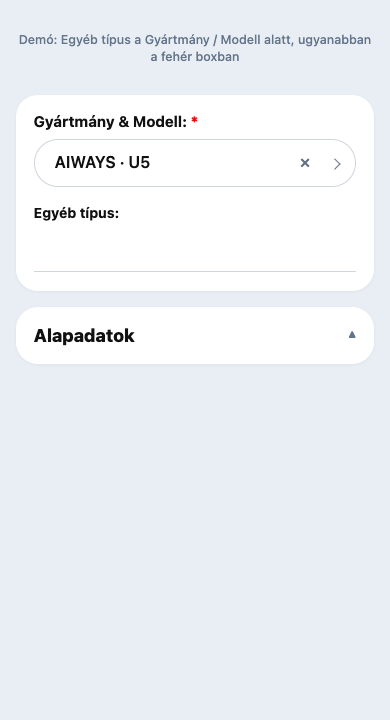
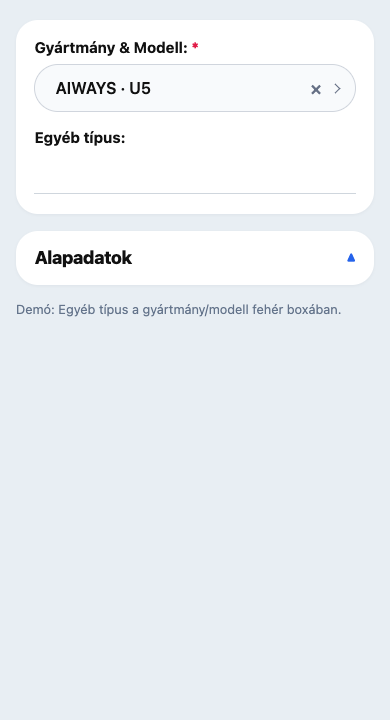
Put Egyéb típus under Gyártmány/Modell in the same white brand card.

diff --git a/public/css/ad-form-bm-pickers.css b/public/css/ad-form-bm-pickers.css
@@ -1243,14 +1243,14 @@ body.site-app[data-site-page="hirdetesfeladas"] #ad-form .step-panel[data-step="
   padding: 0 !important;
 }
 
-/* Gyártmány pill + Egyéb típus: közös fehér box a kék háttéren */
+/* Gyártmány + Egyéb típus: egy fehér box a világoskék hátteren (demó) */
 body.site-app[data-site-page="hirdetesfeladas"] #ad-form .ad-form-alap-brand-block {
   display: flex !important;
   flex-direction: column !important;
   gap: 1rem !important;
   width: 100% !important;
   margin: 0 !important;
-  padding: 1.1rem 1.1rem 1.2rem !important;
+  padding: 1.1rem 1.15rem 1.25rem !important;
   background: #fff !important;
   border-radius: 1.375rem !important;
   border: 0 !important;
@@ -1266,6 +1266,7 @@ body.site-app[data-site-page="hirdetesfeladas"] #ad-form .ad-form-alap-brand-row
   box-shadow: none !important;
   display: grid !important;
   gap: 0.55rem !important;
+  width: 100% !important;
 }
 
 body.site-app[data-site-page="hirdetesfeladas"] #ad-form .ad-form-alap-brand-row > label {
@@ -1274,39 +1275,13 @@ body.site-app[data-site-page="hirdetesfeladas"] #ad-form .ad-form-alap-brand-row
   margin: 0 !important;
 }
 
-/* Egyéb típus: aláhúzott mező a gyártmány/modell alatt, ugyanabban a fehér boxban */
-body.site-app[data-site-page="hirdetesfeladas"] #ad-form .ad-form-alap-brand-block .ad-form-alap-brand-row--egyeb-tipus {
-  gap: 0.45rem !important;
-  margin-top: 0.15rem !important;
-}
-
-body.site-app[data-site-page="hirdetesfeladas"] #ad-form .ad-form-alap-brand-block .ad-form-alap-brand-row--egyeb-tipus > label {
-  font: 700 0.875rem/1.2 system-ui, sans-serif !important;
-}
-
-body.site-app[data-site-page="hirdetesfeladas"] #ad-form .ad-form-alap-brand-block .ad-form-alap-brand-row--egyeb-tipus input,
-body.site-app[data-site-page="hirdetesfeladas"] #ad-form .ad-form-alap-brand-block .ad-form-alap-brand-row--egyeb-tipus input.ad-form-cell,
-body.site-app[data-site-page="hirdetesfeladas"] #ad-form .ad-form-alap-brand-block #egyeb_tipus {
-  border: 0 !important;
-  border-bottom: 1.5px solid #cfd6dd !important;
-  border-radius: 0 !important;
-  background: transparent !important;
-  box-shadow: none !important;
-  min-height: 2.65rem !important;
-  height: auto !important;
-  padding: 0.45rem 0 !important;
-  font: 500 1rem/1.3 system-ui, sans-serif !important;
-  color: #111 !important;
-  width: 100% !important;
-}
-
 body.site-app[data-site-page="hirdetesfeladas"] #ad-form .ad-form-alap-brand-block .ad-form-bm-field--brand-model > .ad-form-drum-wrap,
 body.site-app[data-site-page="hirdetesfeladas"] #ad-form .ad-form-alap-brand-block .ad-form-bm-field--brand-model > .immo-wheel-wrap {
   height: 3rem !important;
   min-height: 3rem !important;
   border-radius: 999px !important;
   border: 1px solid #d0d5dd !important;
-  background: #fff !important;
+  background: #f8fafc !important;
   box-shadow: none !important;
 }
 
@@ -1320,6 +1295,43 @@ body.site-app[data-site-page="hirdetesfeladas"] #ad-form .ad-form-alap-brand-blo
 body.site-app[data-site-page="hirdetesfeladas"] #ad-form .ad-form-alap-brand-block .ad-form-bm-field--brand-model .immo-wheel-trigger:not(.is-placeholder) {
   color: #111 !important;
   font-weight: 600 !important;
+}
+
+/* Egyéb típus: aláhúzás a gyártmány boxban */
+body.site-app[data-site-page="hirdetesfeladas"] #ad-form .ad-form-alap-brand-block .ad-layout-item:has(#egyeb_tipus),
+body.site-app[data-site-page="hirdetesfeladas"] #ad-form .ad-form-alap-brand-block .labeled-field:has(#egyeb_tipus),
+body.site-app[data-site-page="hirdetesfeladas"] #ad-form .ad-form-alap-brand-block .ad-form-alap-brand-row:has(#egyeb_tipus) {
+  display: grid !important;
+  gap: 0.45rem !important;
+  margin: 0.15rem 0 0 !important;
+}
+
+body.site-app[data-site-page="hirdetesfeladas"] #ad-form .ad-form-alap-brand-block :is(.ad-layout-item, .labeled-field, .ad-form-alap-brand-row):has(#egyeb_tipus) > label {
+  font: 700 0.94rem/1.2 system-ui, sans-serif !important;
+  color: #111 !important;
+  margin: 0 !important;
+}
+
+body.site-app[data-site-page="hirdetesfeladas"] #ad-form .ad-form-alap-brand-block #egyeb_tipus,
+body.site-app[data-site-page="hirdetesfeladas"] #ad-form .ad-form-alap-brand-block input#egyeb_tipus.ad-form-cell {
+  width: 100% !important;
+  box-sizing: border-box !important;
+  margin: 0 !important;
+  padding: 0.55rem 0.1rem 0.5rem !important;
+  border: 0 !important;
+  border-bottom: 1.5px solid #cfd6dd !important;
+  border-radius: 0 !important;
+  background: transparent !important;
+  box-shadow: none !important;
+  min-height: 2.5rem !important;
+  font: 500 1rem/1.3 system-ui, sans-serif !important;
+  color: #111 !important;
+  outline: none !important;
+}
+
+body.site-app[data-site-page="hirdetesfeladas"] #ad-form .ad-form-alap-brand-block #egyeb_tipus:focus,
+body.site-app[data-site-page="hirdetesfeladas"] #ad-form .ad-form-alap-brand-block input#egyeb_tipus.ad-form-cell:focus {
+  border-bottom-color: #111 !important;
 }
 
 /* Fehér Alapadatok kártya */
@@ -1463,9 +1475,15 @@ html[data-theme="dark"] body.site-app.ad-form-desk-active[data-site-page="hirdet
 }
 
 html[data-theme="dark"] body.site-app[data-site-page="hirdetesfeladas"] #ad-form .ad-form-alap-card,
-html[data-theme="dark"] body.site-app[data-site-page="hirdetesfeladas"] #ad-form .ad-form-alap-brand-block .ad-form-bm-field--brand-model > .ad-form-drum-wrap {
+html[data-theme="dark"] body.site-app[data-site-page="hirdetesfeladas"] #ad-form .ad-form-alap-brand-block {
   background: #1d1d1d !important;
   box-shadow: none !important;
+}
+
+html[data-theme="dark"] body.site-app[data-site-page="hirdetesfeladas"] #ad-form .ad-form-alap-brand-block .ad-form-bm-field--brand-model > .ad-form-drum-wrap,
+html[data-theme="dark"] body.site-app[data-site-page="hirdetesfeladas"] #ad-form .ad-form-alap-brand-block .ad-form-bm-field--brand-model > .immo-wheel-wrap {
+  background: #111827 !important;
+  border-color: #4b5563 !important;
 }
 
 html[data-theme="dark"] body.site-app[data-site-page="hirdetesfeladas"] #ad-form .ad-form-alap-card__title,

diff --git a/docs/design-demos/ad-form-brand-egyeb-tipus-demo.html b/docs/design-demos/ad-form-brand-egyeb-tipus-demo.html
@@ -3,105 +3,110 @@
 <head>
   <meta charset="utf-8" />
   <meta name="viewport" content="width=device-width, initial-scale=1" />
-  <title>Demó — Gyártmány/Modell + Egyéb típus egy fehér boxban</title>
+  <title>Demó — Gyártmány box + Egyéb típus</title>
   <style>
     :root { color-scheme: light; }
     * { box-sizing: border-box; }
     body {
       margin: 0;
       min-height: 100vh;
-      font-family: system-ui, -apple-system, sans-serif;
-      background: #e8eef3;
-      color: #111;
       padding: 1.25rem 1rem 2rem;
+      background: #e8eef3;
+      font: 400 16px/1.35 system-ui, -apple-system, sans-serif;
+      color: #111;
     }
-    .wrap { max-width: 390px; margin: 0 auto; display: flex; flex-direction: column; gap: 1rem; }
-    .brand-box {
+    .stack {
+      max-width: 390px;
+      margin: 0 auto;
+      display: flex;
+      flex-direction: column;
+      gap: 1.1rem;
+    }
+    .brand-box,
+    .alap-box {
       background: #fff;
       border-radius: 1.375rem;
-      padding: 1.1rem 1.1rem 1.2rem;
       box-shadow: 0 1px 3px rgba(15, 23, 42, 0.05);
+      padding: 1.1rem 1.15rem 1.25rem;
+    }
+    .brand-box {
       display: flex;
       flex-direction: column;
       gap: 1rem;
     }
-    .row { display: grid; gap: 0.55rem; }
-    .row--egyeb { gap: 0.45rem; margin-top: 0.15rem; }
-    label { font: 700 0.94rem/1.2 system-ui, sans-serif; margin: 0; }
-    .row--egyeb label { font-size: 0.875rem; }
+    label {
+      display: block;
+      font: 700 0.94rem/1.2 system-ui, sans-serif;
+      margin: 0 0 0.55rem;
+    }
+    .req { color: #e11d48; }
     .pill {
-      position: relative;
-      height: 3rem;
-      border-radius: 999px;
-      border: 1px solid #d0d5dd;
-      background: #fff;
       display: flex;
       align-items: center;
-      padding: 0 2.35rem 0 1.25rem;
+      justify-content: space-between;
+      min-height: 3rem;
+      padding: 0 1rem 0 1.25rem;
+      border: 1px solid #d0d5dd;
+      border-radius: 999px;
+      background: #f8fafc;
       font: 600 1rem/1.2 system-ui, sans-serif;
-      color: #111;
     }
-    .pill::after {
-      content: "";
-      position: absolute;
-      top: 50%;
-      right: 1.05rem;
+    .pill .meta { display: flex; align-items: center; gap: 0.65rem; color: #667085; }
+    .pill .x { font-size: 1.15rem; line-height: 1; }
+    .pill .chev {
       width: 0.42rem;
       height: 0.42rem;
-      margin-top: -0.22rem;
       border-top: 1.5px solid #667085;
       border-right: 1.5px solid #667085;
       transform: rotate(45deg);
     }
-    .pill.is-empty { color: #6b7280; font-weight: 500; }
-    .pill .x {
-      position: absolute;
-      right: 2.4rem;
-      border: 0;
-      background: transparent;
-      font-size: 1.25rem;
-      line-height: 1;
-      color: #667085;
-      cursor: default;
-    }
     .underline {
+      width: 100%;
       border: 0;
       border-bottom: 1.5px solid #cfd6dd;
       background: transparent;
-      min-height: 2.65rem;
-      padding: 0.45rem 0;
+      padding: 0.55rem 0.1rem 0.5rem;
       font: 500 1rem/1.3 system-ui, sans-serif;
-      width: 100%;
       outline: none;
     }
-    .alap {
-      background: #fff;
-      border-radius: 1.375rem;
-      padding: 1.1rem;
-      box-shadow: 0 1px 3px rgba(15, 23, 42, 0.05);
-      font: 800 1.125rem/1.2 system-ui, sans-serif;
+    .alap-box {
       display: flex;
-      justify-content: space-between;
       align-items: center;
+      justify-content: space-between;
+      min-height: 3.35rem;
+      padding: 0.95rem 1.15rem;
+      font: 800 1.125rem/1.2 system-ui, sans-serif;
+      letter-spacing: -0.02em;
     }
-    .alap span { color: #64748b; font-size: 0.65rem; transform: rotate(180deg); }
-    .note { font: 500 0.78rem/1.35 system-ui, sans-serif; color: #64748b; text-align: center; }
+    .alap-box .tri { color: #2563eb; font-size: 0.75rem; }
+    .note {
+      max-width: 390px;
+      margin: 1rem auto 0;
+      font-size: 0.8rem;
+      color: #64748b;
+    }
   </style>
 </head>
 <body>
-  <div class="wrap">
-    <p class="note">Demó: Egyéb típus a Gyártmány / Modell alatt, ugyanabban a fehér boxban</p>
-    <div class="brand-box">
-      <div class="row">
-        <label>Gyártmány &amp; Modell: <span style="color:#e11">*</span></label>
-        <div class="pill">AIWAYS · U5<button class="x" type="button" aria-label="törlés">×</button></div>
+  <div class="stack">
+    <section class="brand-box" aria-label="Gyártmány box">
+      <div>
+        <label>Gyártmány &amp; Modell: <span class="req">*</span></label>
+        <div class="pill">
+          <span>AIWAYS · U5</span>
+          <span class="meta"><span class="x" aria-hidden="true">×</span><span class="chev" aria-hidden="true"></span></span>
+        </div>
       </div>
-      <div class="row row--egyeb">
+      <div>
         <label for="egyeb">Egyéb típus:</label>
-        <input id="egyeb" class="underline" type="text" value="" placeholder="" />
+        <input id="egyeb" class="underline" type="text" placeholder="" />
       </div>
-    </div>
-    <div class="alap">Alapadatok <span>▼</span></div>
+    </section>
+    <section class="alap-box" aria-label="Alapadatok">
+      <span>Alapadatok</span>
+      <span class="tri" aria-hidden="true">▲</span>
+    </section>
   </div>
+  <p class="note">Demó: Egyéb típus a gyártmány/modell fehér boxában.</p>
 </body>
 </html>

diff --git a/public/js/ad-form-desk-pinned-blocks.js b/public/js/ad-form-desk-pinned-blocks.js
@@ -89,11 +89,10 @@ function step1FieldKey(el) {
 
 function isStep1BrandRow(el) {
   if (!el) return false;
-  /* Csak a kombinált gyártmány-pill — a külön #modell sort a nested CSS rejti, ne a brand blokkba. */
+  /* Gyártmány-pill + Egyéb típus egy fehér boxban (demó). */
   if (el.matches?.(".ad-form-bm-field--brand-model")) return true;
   if (el.querySelector?.(".ad-form-bm-field--brand-model, [data-ad-bm-for='gyartmany']")) return true;
   const key = step1FieldKey(el);
-  /* Egyéb típus a gyártmány/modell fehér boxában, közvetlenül alatta. */
   return key === "gyartmany" || key === "egyeb_tipus";
 }
 
@@ -141,22 +140,17 @@ export function wrapAlapScoutCard(canvas) {
   const rest = items.filter((el) => !isStep1BrandRow(el));
 
   if (brand.length) {
+    brand.sort(
+      (a, b) =>
+        deskStep1CanonicalRank(step1FieldKey(a)) - deskStep1CanonicalRank(step1FieldKey(b)) ||
+        (Number(a.dataset?.layoutRow) || 0) - (Number(b.dataset?.layoutRow) || 0)
+    );
     const brandBlock = document.createElement("div");
     brandBlock.className = "ad-form-alap-brand-block";
-    brand
-      .slice()
-      .sort(
-        (a, b) =>
-          deskStep1CanonicalRank(step1FieldKey(a)) - deskStep1CanonicalRank(step1FieldKey(b)) ||
-          (Number(a.dataset?.layoutRow) || 0) - (Number(b.dataset?.layoutRow) || 0)
-      )
-      .forEach((el) => {
-        el.classList.add("ad-form-alap-brand-row");
-        if (step1FieldKey(el) === "egyeb_tipus") {
-          el.classList.add("ad-form-alap-brand-row--egyeb-tipus");
-        }
-        brandBlock.appendChild(el);
-      });
+    brand.forEach((el) => {
+      el.classList.add("ad-form-alap-brand-row");
+      brandBlock.appendChild(el);
+    });
     canvas.appendChild(brandBlock);
   }
 
